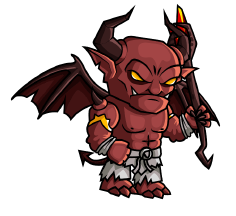
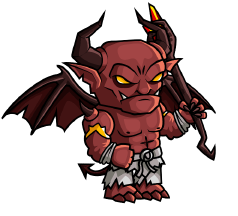
Correct the shaman's cast, and let a body fall over
I got the cast wrong and shipped it. Three of the six frames I imported as
shaman-cast were the opening of a DEATH TOPPLE, so the shaman ended its spell
wind-up by falling over. This batch of frames is what made that visible: four
of the eleven are byte-identical to frames already in the tree, and they sit
in a sequence that keeps going.

What settled it was measuring body tilt -- the principal axis of the skin
pixels, which ignores the wings and the staff:

    frames    tilt            base y            reading
    0..4      -4° -> -23°     763 -> 666        rises 97px, legs tuck
    5..10     -4° -> -45°     763 -> 781        rotates over, sinks
    old 1,2,3 -1° -> -12°     flat ~766         staff sweeps overhead

A body 45° off vertical and still turning is not winding up a spell. The
actual cast is the three frames where the staff sweeps up and over the head
with the body upright and planted, and that is what shaman-cast now is.

The topple becomes a DEATH, which needs nothing from the core: the core never
removes a dead body from `enemies`, everything just skips hp <= 0, so the
renderer notices the death itself, times a 480ms fall, and then drops the
body. Gone, not lying there -- a floor of corpses is a different game and a
different culling cost. A kind with no die art still vanishes on the frame it
dies, exactly as every kind did before.

A cycle is now REGISTERED ON ITS FIRST FRAME rather than on the common box.
[…]

diff --git a/phaser/src/delve.js b/phaser/src/delve.js
@@ -46,6 +46,21 @@ const SS = 2;      // art/ is exported at 2x, which is native for it
  */
 const IDLE_CYCLE_MS = 2800, IDLE_MIN_MS = 110, IDLE_MAX_MS = 420;
 
+/* How long a body takes to fall over, in milliseconds.
+ *
+ * Bodies used to stop being drawn the instant their hp reached zero, which is
+ * the cheapest possible death and reads as one: a thrall does not die, it is
+ * deleted. A kind with `<kind>-die-0..N` now topples over that long and is
+ * then gone -- gone, not lying there, because a floor of corpses is a
+ * different game and a different culling cost, and this is meant to be the
+ * beat that was missing rather than a new kind of clutter.
+ *
+ * The core never removes a dead body from `enemies` -- everything simply skips
+ * hp <= 0 -- so all of this is the renderer's business and the simulation does
+ * not know it happened.
+ */
+const DIE_MS = 480;
+
 /* The adaptive-effects thresholds, in milliseconds of WORK per frame. The
  * canvas build's numbers, kept: above FX_DROP a frame cannot hold 60Hz, below
  * FX_RAISE there is room to put the mood back, and FX_SAMPLE frames is about
@@ -528,6 +543,27 @@ export class Delve extends Phaser.Scene {
     }
   }
 
+  /* Whether a body is still worth drawing.
+   *
+   * Alive: always. Dead: only while it is still falling over, and only if it
+   * has frames to fall over WITH -- a kind with no die art vanishes on the
+   * frame it dies, exactly as every kind did before this existed.
+   *
+   * The moment of death is noticed here rather than told to us: the core has
+   * no death event, it just stops treating a body as alive, and the renderer
+   * sees that within a frame. Cleared again if the body somehow comes back,
+   * so a revived body does not inherit a stale clock.
+   */
+  showBody(e, time) {
+    if (e.hp > 0) {
+      if (e.dieAt !== undefined) e.dieAt = undefined;
+      return true;
+    }
+    if (!this.cycleN['bestiary/' + e.kind + '-die']) return false;
+    if (e.dieAt === undefined) e.dieAt = time;
+    return time - e.dieAt < DIE_MS;
+  }
+
   /* How far through a wind-up a body is: 0 as it starts, 1 as the blow lands,
    * and -1 when it is not winding up at all.
    *
@@ -586,6 +622,16 @@ export class Delve extends Phaser.Scene {
    */
   bodyFrame(e, time) {
     const base = 'bestiary/' + e.kind;
+
+    // Falling over outranks everything else a body could be doing, including
+    // the cast it was halfway through when it was killed.
+    if (e.hp <= 0) {
+      const dn = this.cycleN[base + '-die'];
+      if (!dn) return base + '-rest';
+      const t = (time === undefined ? this.time.now : time) - (e.dieAt || 0);
+      return base + '-die-' + Math.min(dn - 1, ((t / DIE_MS) * dn) | 0);
+    }
+
     // A calcifying body is stone under a shell of light. Stone does not
     // breathe, and the held frame is half of what sells the state.
     if (e.calcify > 0) return base + '-rest';
@@ -743,7 +789,7 @@ export class Delve extends Phaser.Scene {
     // assumes add() appends to the very array getChildren() handed back -- and
     // when it does not, the loop never terminates and the page simply stops,
     // which is a hang with no error and nothing in the log.
-    const live = this.stepping ? enemies.filter(e => e.hp > 0) : [];
+    const live = this.stepping ? enemies.filter(e => this.showBody(e, time)) : [];
     const pool = this.pool;
     while (pool.length < live.length) {
       const s = this.add.sprite(0, 0, 'art', 'bestiary/thrall-rest');

diff --git a/tools/import-art.js b/tools/import-art.js
@@ -208,7 +208,22 @@ const W = Math.max(1, Math.round(H * (bw / bh)));
 // not always centred in its own frame either.
 const footY = (t.box.y1 + 1) * scale;
 const midX = ((t.box.x0 + t.box.x1 + 1) / 2) * scale;
-const oy = Math.round(footY - H);
+
+/* Registered on the FIRST frame, not on the common box.
+ *
+ * The box spans every frame of the cycle, so aligning its bottom to the foot
+ * line aligns the LOWEST frame -- and in a cycle that deliberately moves, that
+ * is not the frame that has to line up. A death topple sinks 25px as it falls,
+ * so registering by the box put the body 3 world units in the air at the
+ * instant it died and settled it on the ground only once it was flat: the body
+ * hopped up to fall over.
+ *
+ * Frame 0 is the frame that stands in for the pose the body was already in, so
+ * frame 0 is what goes on the foot line. Everything after it keeps its own
+ * offset inside the box, which is the whole reason the box is shared.
+ */
+const first = bounds(pngs[0].png, pngs[0].file);
+const oy = Math.round(footY - (first.y1 - box.y0 + 1) * (H / bh));
 
 /* A broad pose gets a broader canvas rather than a haircut.
  *

diff --git a/art/STYLE.md b/art/STYLE.md
@@ -70,9 +70,9 @@ different in the loop so a pack does not breathe in unison. A kind with no
 idle frames still holds its one rest pose, exactly as before, so this arrives
 one creature at a time.
 
-The shaman has a ten-frame breath and a six-frame cast; three other kinds have
-a two-frame pulse. Everything else is still a frozen frame, and that is still
-the single biggest reason the scene reads as static.
+The shaman has a ten-frame breath, a three-frame cast and a five-frame death;
+three other kinds have a two-frame pulse. Everything else is still a frozen
+frame, and that is still the single biggest reason the scene reads as static.
 
 Two things the cycle player works out for itself, so nothing has to be
 declared:
@@ -99,12 +99,16 @@ What would fix the rest, roughly in order of value for effort:
    behind the body. The current run cycles move the whole figure rigidly.
 3. **A hit pose.** Bodies currently flash white when struck. A one-frame
    recoil reads far better.
-3b. **Cast poses for the cantor.** `<kind>-cast-0..N` now plays across a
-   body's wind-up, driven by how far through it is rather than by a clock —
-   so the last frame lands as the blow does, and a caster wound back up by a
-   null zone visibly loses ground. The shaman has one. The cantor's bolt
+3b. **Cast poses for the cantor.** `<kind>-cast-0..N` plays across a body's
+   wind-up, driven by how far through it is rather than by a clock — so the
+   last frame lands as the blow does, and a caster wound back up by a null
+   zone visibly loses ground. The shaman has one. The cantor's bolt
    (`casting`, 0.55s) has the state and no art.
-4. **Death frames.** Bodies presently just stop being drawn.
+4. **Death frames for everything else.** `<kind>-die-0..N` plays over 480ms
+   from the killing blow and the body is then gone — gone rather than lying
+   there, because a floor of corpses is a different game. A kind with no die
+   art still vanishes on the frame it dies, which is what every kind did
+   before. Only the shaman has one.
 
 ## The palette
 
@@ -168,9 +172,17 @@ Author at 2× the forged resolution (the default). A body is 38–96 world units
 and a phone renders at dpr ~2.8, so 2× is about pixel parity on the device and
 anything more is texture nobody can see.
 
-A cast is imported exactly like an idle — `bestiary/<kind>-cast` with the
-frames in the order they play, the last one being the pose the spell leaves
-on. It is not a loop and is never reversed: it runs once, across the wind-up.
+A cast or a death is imported exactly like an idle — `bestiary/<kind>-cast`,
+`bestiary/<kind>-die` — with the frames in the order they play. Neither is a
+loop and neither is ever reversed: a cast runs once across the wind-up, a death
+runs once and then the body is gone.
+
+**A cycle is registered on its FIRST frame**, which stands in for the pose the
+body was already in; every frame after it keeps whatever offset the artist gave
+it inside the shared box. That is what lets a death sink as it falls and a
+takeoff leave the ground. Registering on the box instead put a dying body 3
+world units in the air at the instant it died and set it down only once it was
+flat — it hopped up in order to fall over.
 
 If a creature is broader than the body it replaces, its canvas is widened
 rather than the figure shrunk. The forged frames are square and cut for narrow
